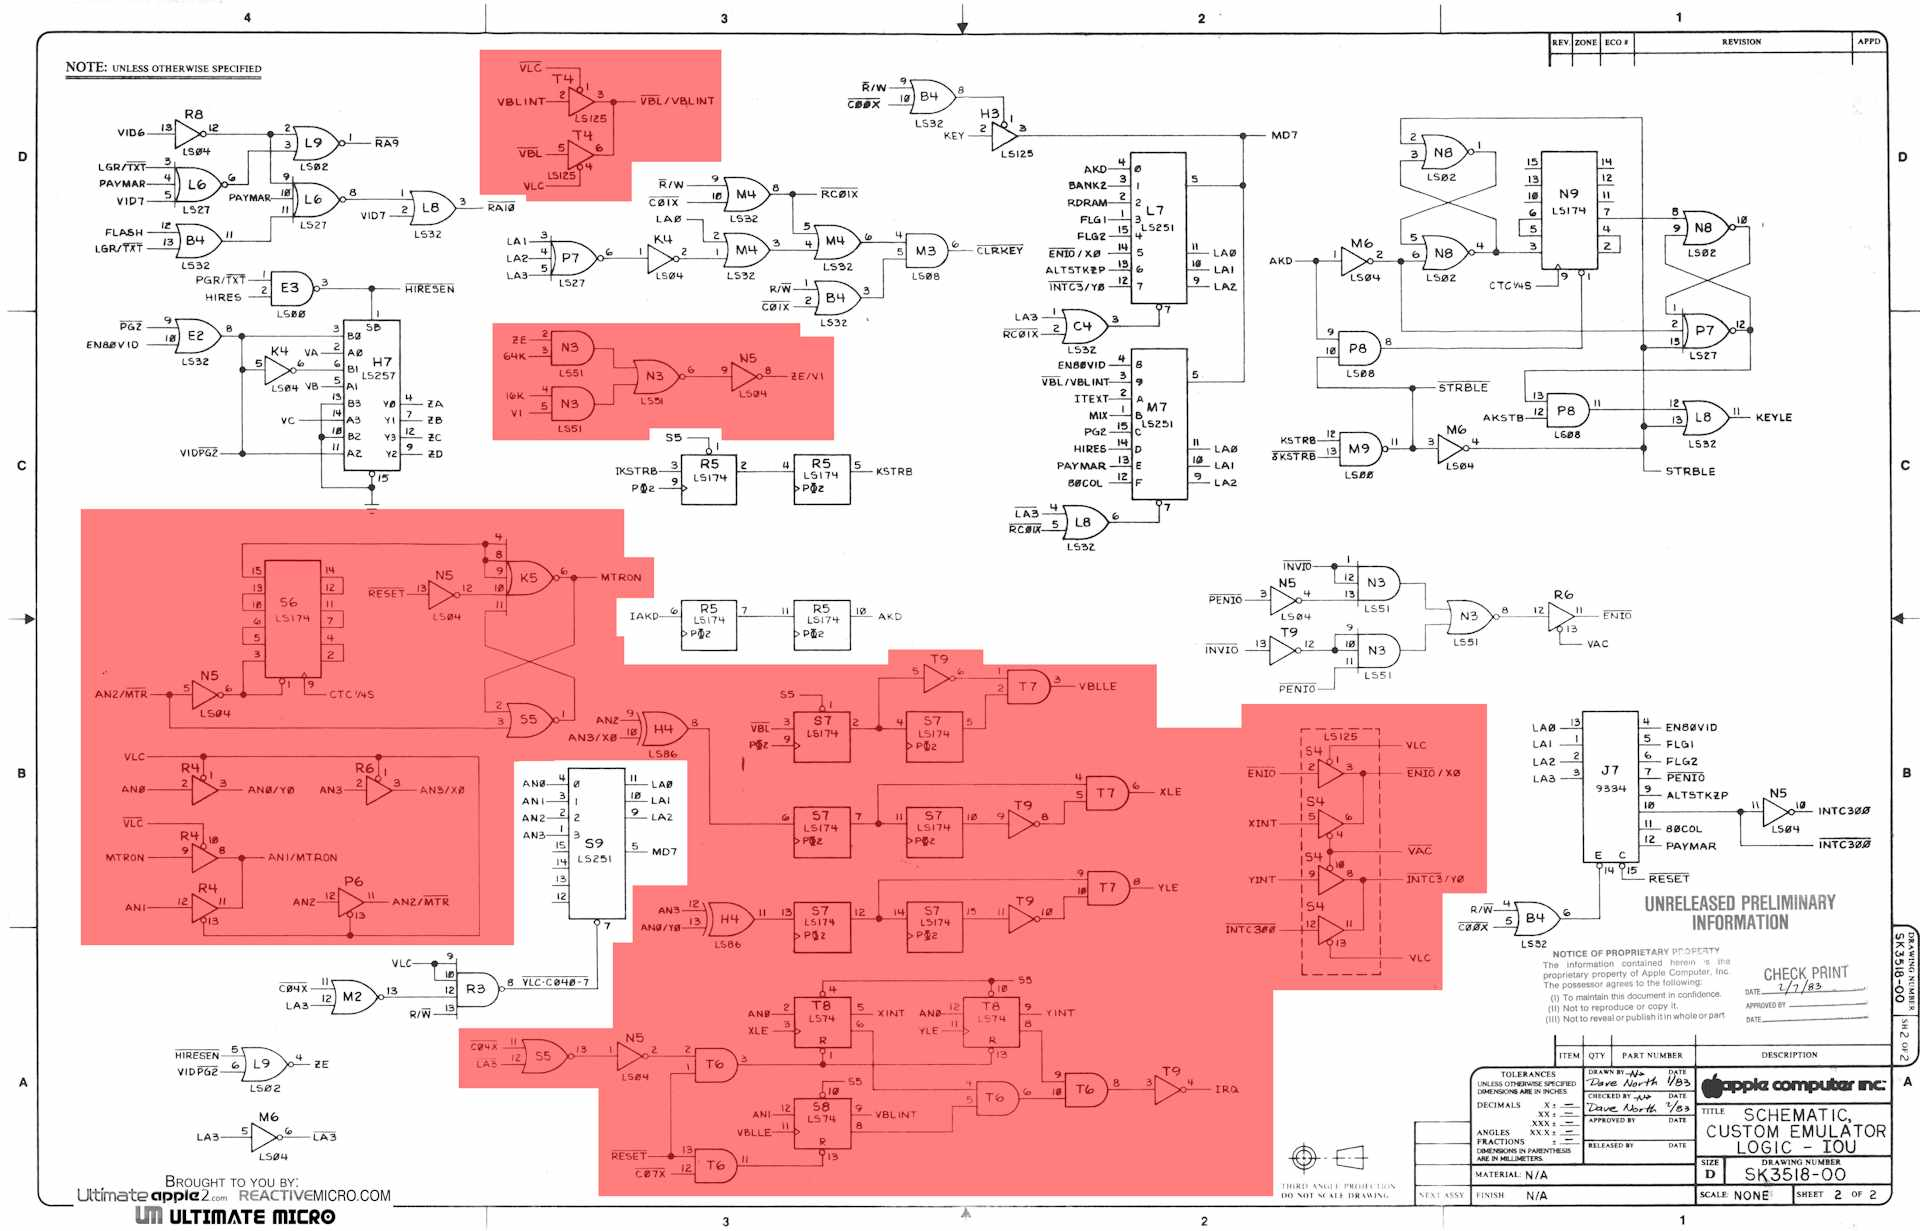
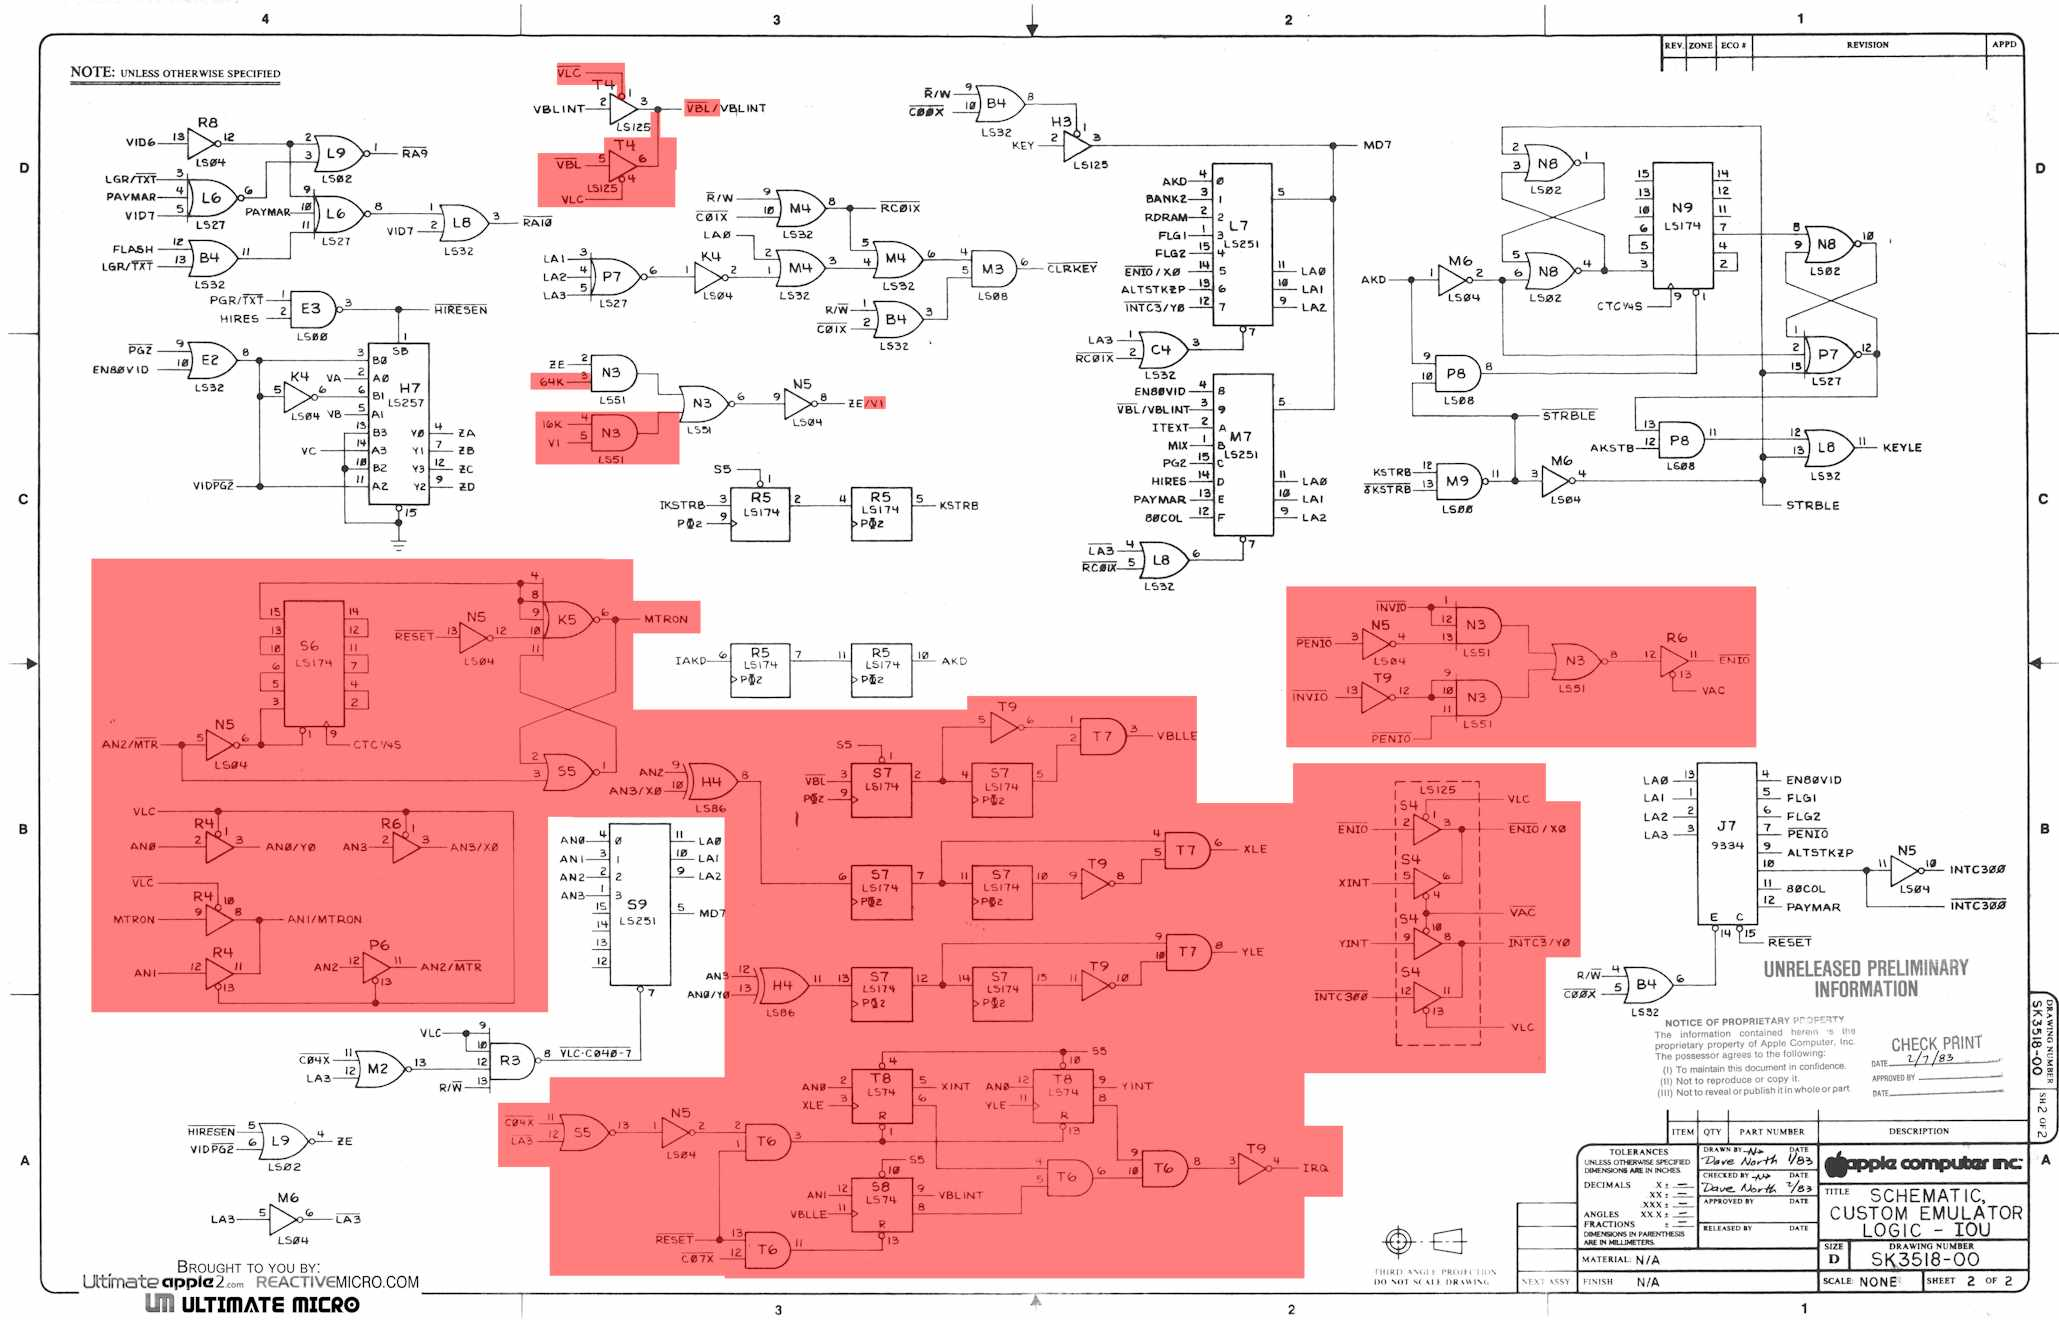
update unimplemented

diff --git a/Documentation/Understanding_IOU_MMU/Whats-not-implemented.md b/Documentation/Understanding_IOU_MMU/Whats-not-implemented.md
@@ -14,13 +14,13 @@ Only features related to the Apple IIe were implemented. These are the bonding o
 
 In red, the part of the schematics that were not implemented:
 ## IOU 1
-Everything was implemented in IOU_1
+<img src="/resources/NotImplemented_IOU_1.jpg"/>
 
 ## IOU 2
-<img src="/resources/NotImplemented_IOU_2.jpg" style="width: 1920px"/>
+<img src="/resources/NotImplemented_IOU_2.jpg"/>
 
 ## MMU 1
-<img src="/resources/NotImplemented_MMU_1.jpg" style="width: 1920px"/>
+<img src="/resources/NotImplemented_MMU_1.jpg"/>
 
 ## MMU 2
-<img src="/resources/NotImplemented_MMU_2.jpg" style="width: 1920px"/>
+<img src="/resources/NotImplemented_MMU_2.jpg"/>
